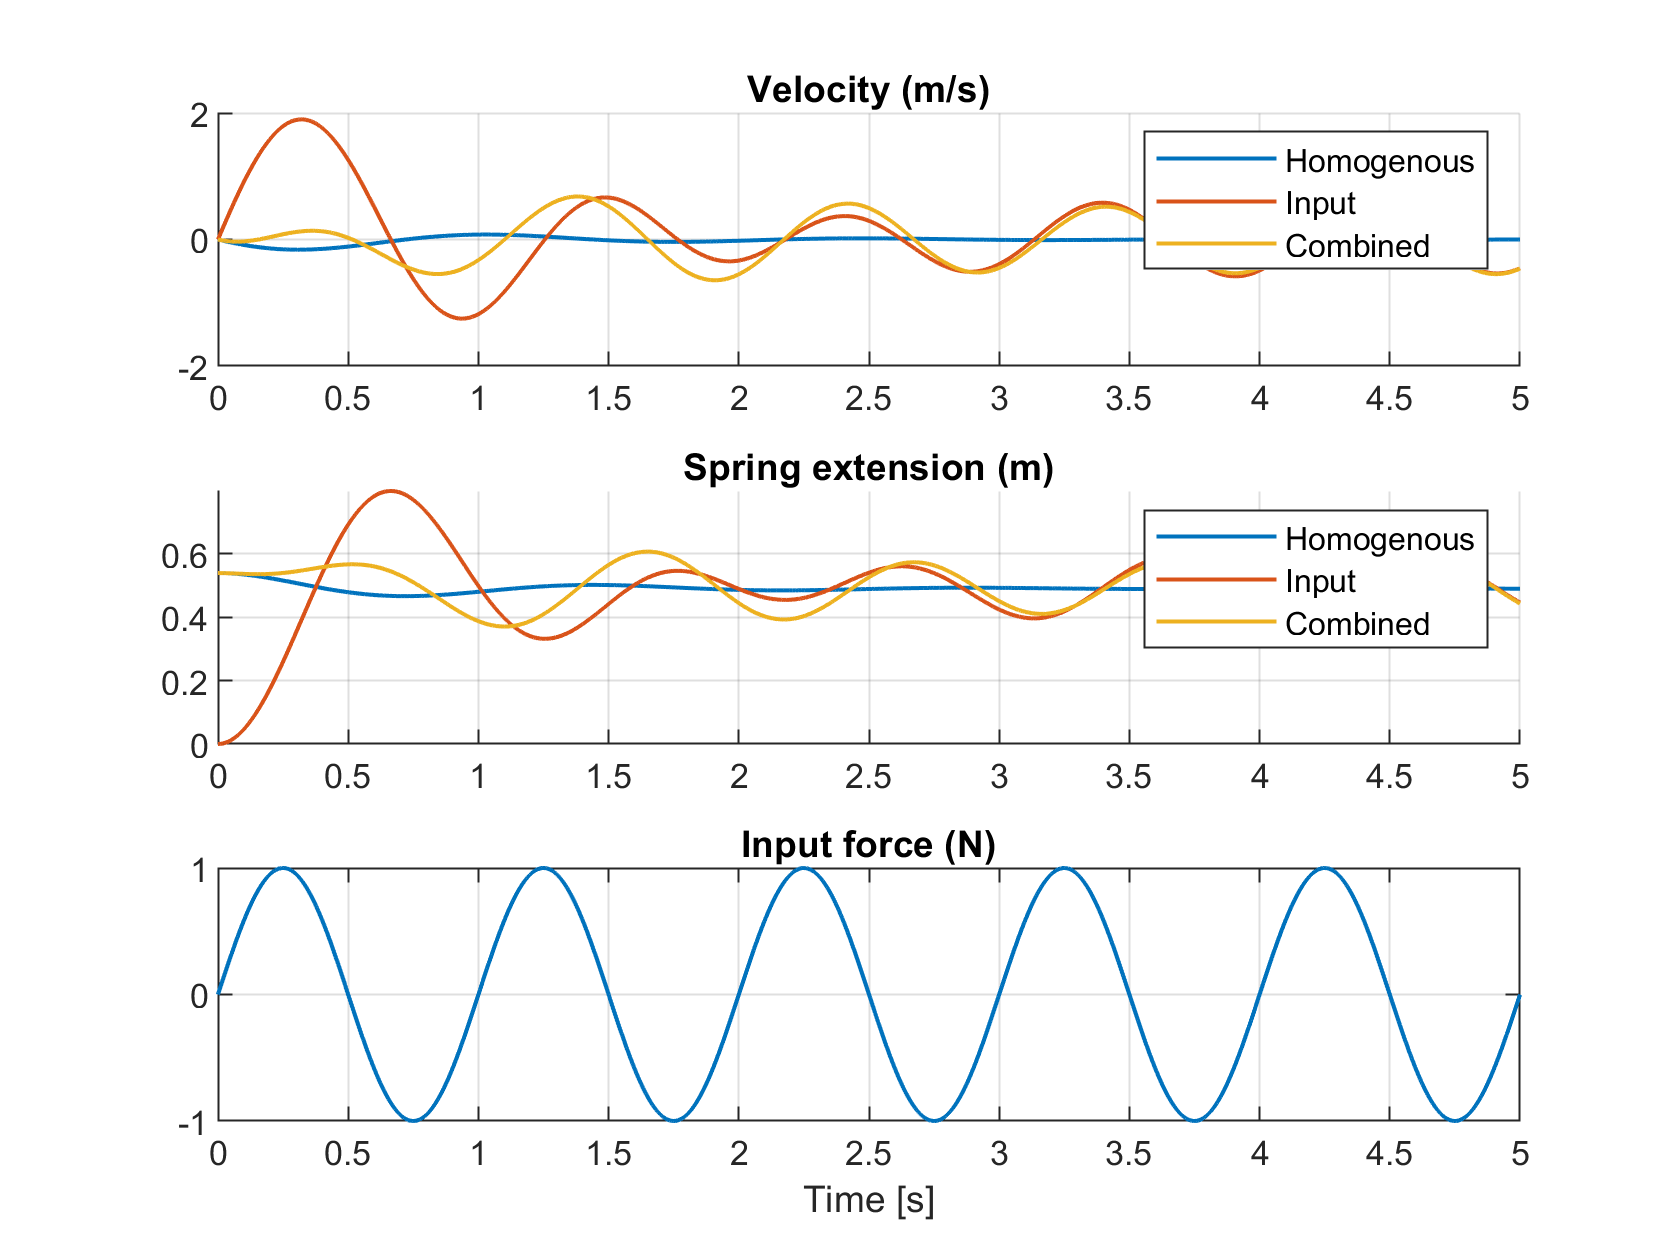
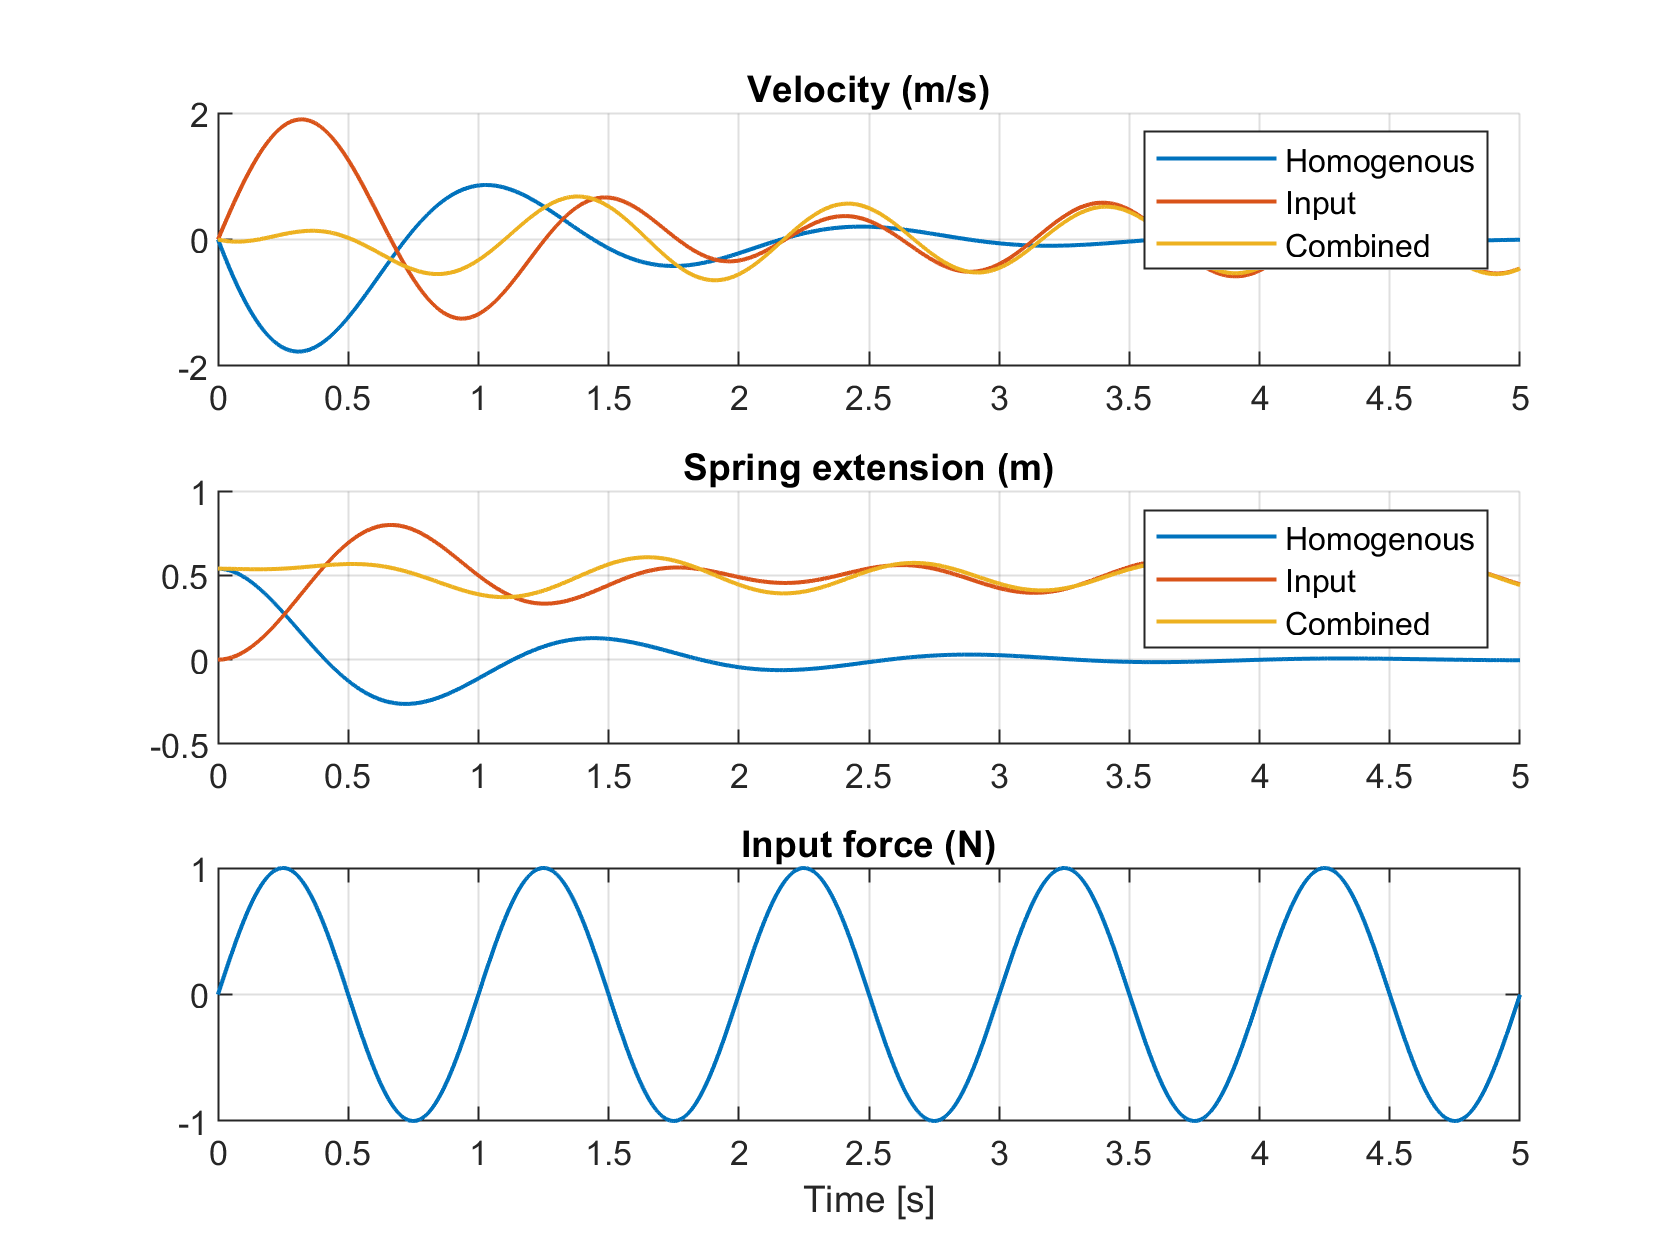
Fix homogeneous response
- Had forgotten to exclude input from g in the homogeneous response
- Fixed and reran simulation
- Updated responses figure
- Updated MATLAB file in the download link

diff --git a/assets/post-convolution integral/Simulation.m b/assets/post-convolution integral/Simulation.m
@@ -28,10 +28,12 @@ clear all; close all; clc;
     
     % Homogenous response
     parameters(5) = 0;
+    parameters(4) = 0;
     [t1,x1] = ode45(@(t,x) msd(t,x,parameters),t,x0);
     
     % Input response
     parameters(5) = amp;
+    parameters(4) = g;
     [t2,x2] = ode45(@(t,x) msd(t,x,parameters),t,[0;0]);
     
     % Combined Solution
